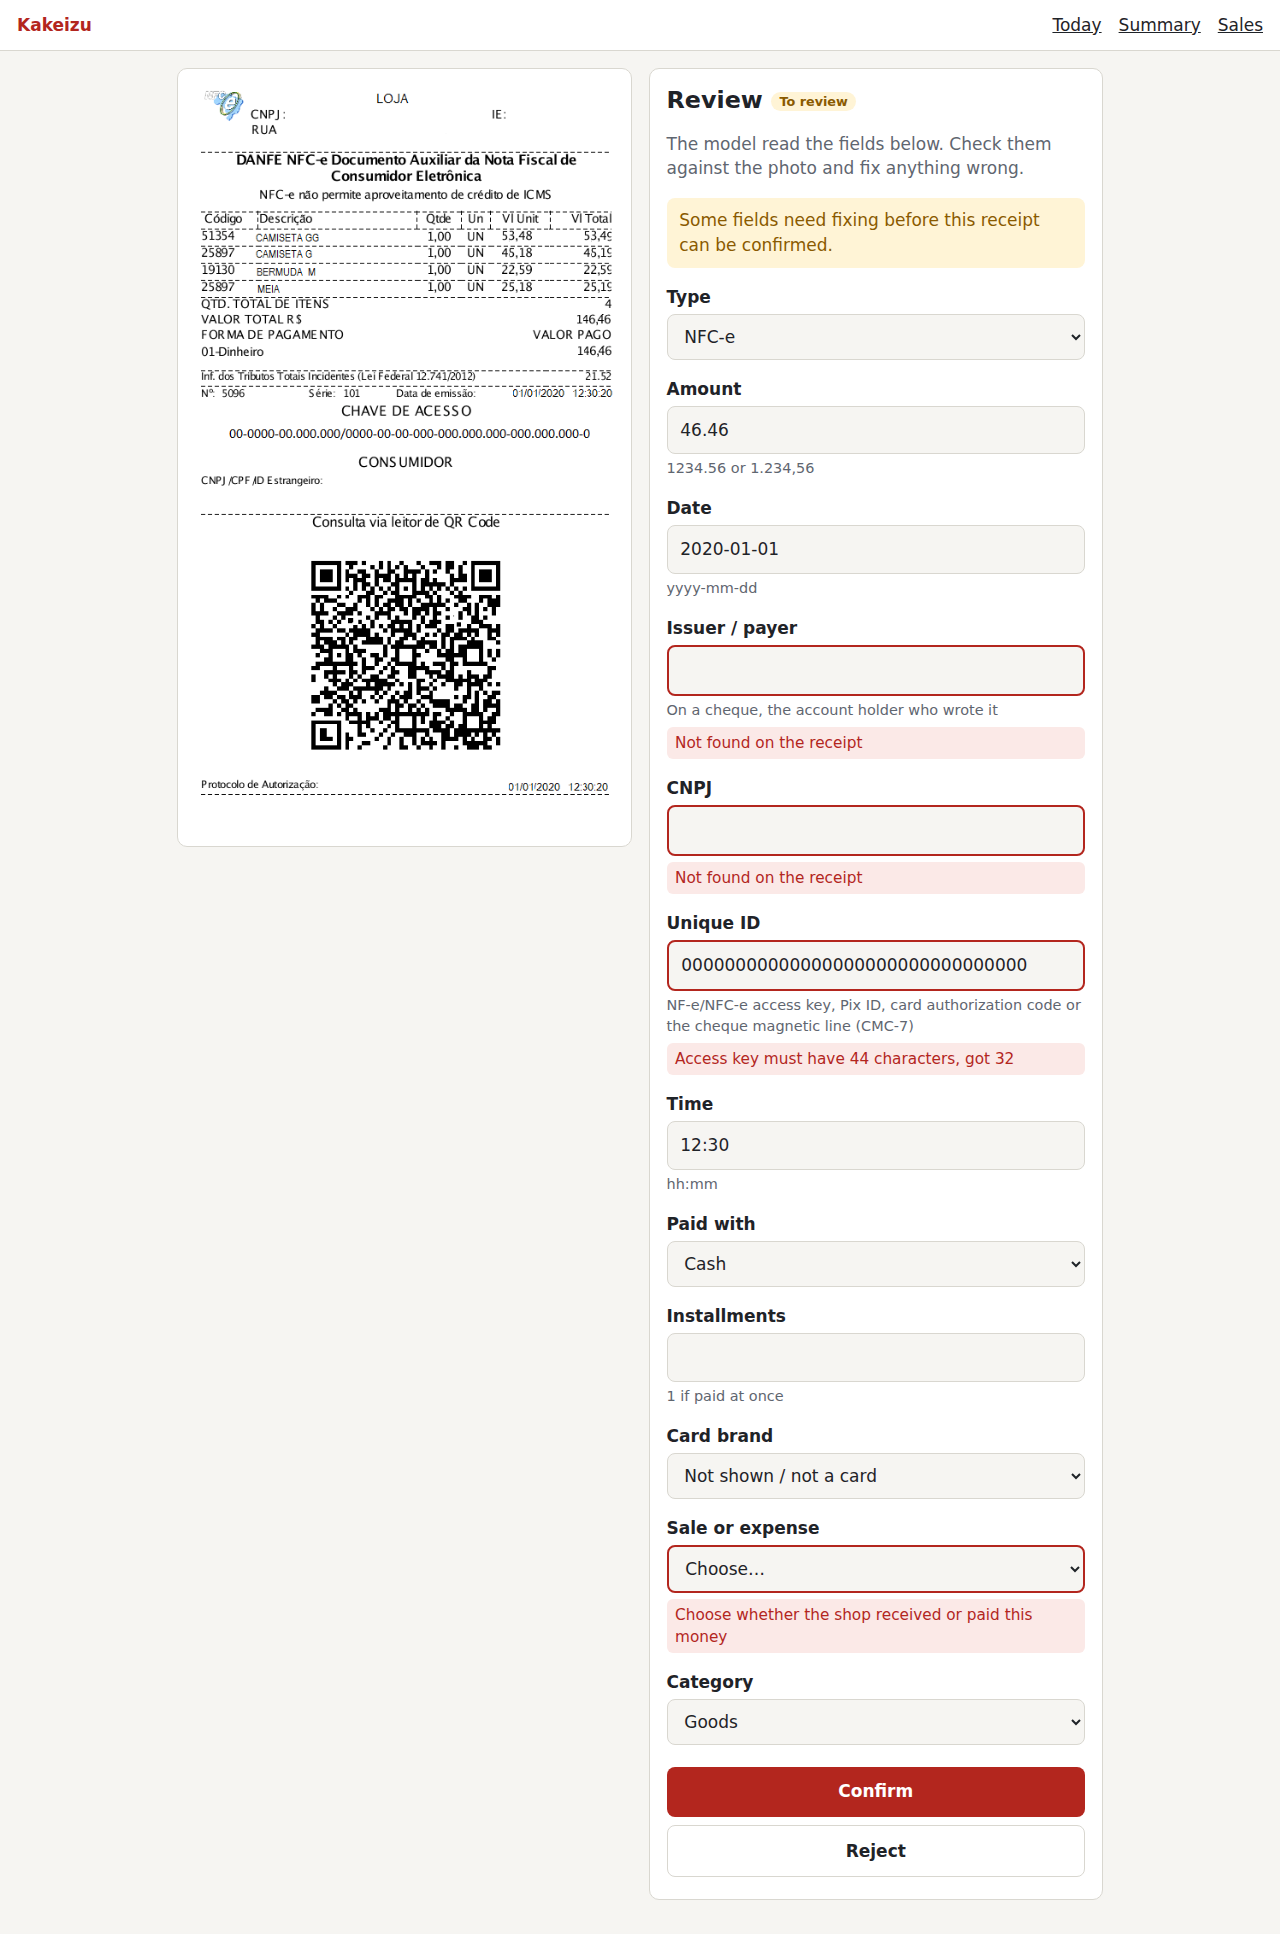
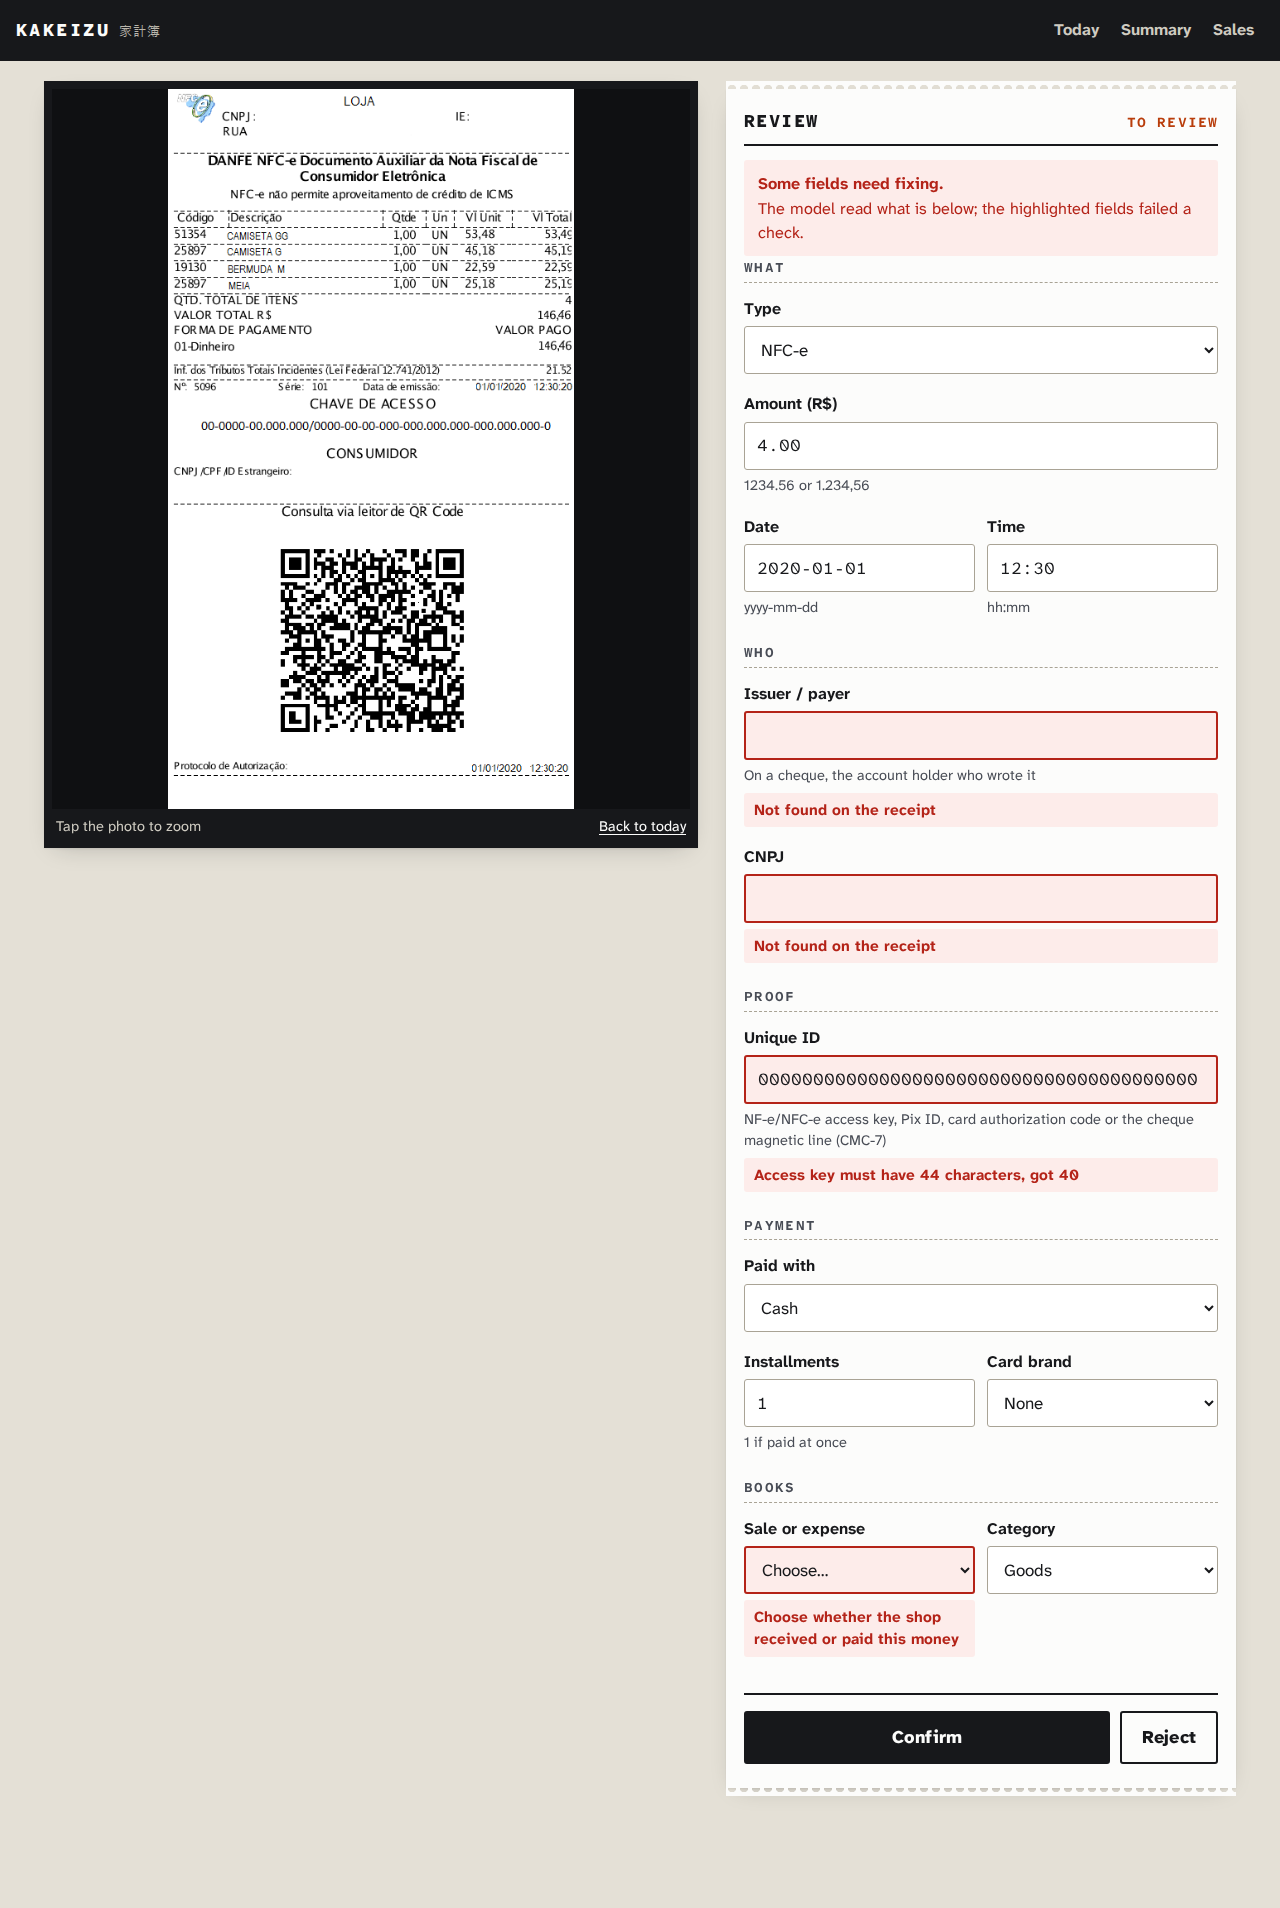
docs: new screenshots and background reading in the readme

diff --git a/README.md b/README.md
@@ -54,7 +54,7 @@ the domain checks every digit it can, and a person confirms. Nothing is confirme
 <tr>
 <td align="center">📱<br><b>Photo</b><br><sub>from the phone</sub></td>
 <td align="center">➜</td>
-<td align="center">🤖<br><b>Gemma</b><br><sub>reads the fields,<br>locally on Ollama</sub></td>
+<td align="center">🤖<br><b>Gemma</b><br><sub>reads the fields locally,<br>in the background</sub></td>
 <td align="center">➜</td>
 <td align="center">🧮<br><b>Domain</b><br><sub>check digits,<br>formats, dates</sub></td>
 <td align="center">➜</td>
@@ -78,20 +78,28 @@ the domain checks every digit it can, and a person confirms. Nothing is confirme
 
 The model's answer and the person's corrections go through **the same** validation.
 
+### ⏱ No waiting for the model
+
+A reading takes ~15 s on a consumer GPU, nearly all of it the model's own reasoning (the image itself is
+processed in under a second, and turning the reasoning off costs accuracy). So nobody waits for it: the
+upload saves the photo and returns at once, and a background worker reads it while the owner takes the
+next photo. The line on today's list updates itself when the reading is done. If the model fails, the
+receipt still goes to review, empty, to be typed from the photo; readings cut by a restart start again.
+
 ### 🗂 Several photos at once
 
-Up to 5 photos can go in one upload. Each one is read on its own virtual thread inside a
-[structured task scope](https://openjdk.org/jeps/505): every photo gets an answer, a photo the model
-cannot read does not stop the others, and no thread outlives the request. With one GPU the model still
-reads one photo at a time, so this is about shape, not speed.
+Up to 5 photos can go in one upload. Each one is saved and queued on its own virtual thread inside a
+[structured task scope](https://openjdk.org/jeps/505): every photo gets an answer, a photo that fails
+does not stop the others, and no thread outlives the request.
 
 Every log line of an upload carries a correlation id held in a
-[scoped value](https://openjdk.org/jeps/506), which the forked threads inherit:
+[scoped value](https://openjdk.org/jeps/506). Forked threads inherit it; the background reader gets it
+handed over explicitly, since a scoped value does not cross into an executor on its own:
 
 ```
-(executor-thread-1)  [e618ffe0] Batch of 2 photos
-(batch-e618ffe0-1)   [e618ffe0/1] Model read the receipt in 11512 ms
-(batch-e618ffe0-2)   [e618ffe0/2] Model read the receipt in 10985 ms
+(executor-thread-3) [2774b991] Receipt 2375400d-… uploaded, queued for reading
+(reader-1)          [2774b991] Model read the receipt in 12177 ms
+(reader-1)          [2774b991] Receipt 2375400d-… read, pending review
 ```
 
 ## 📸 Screenshots
@@ -102,8 +110,13 @@ Every log line of an upload carries a correlation id held in a
 
 <img src="docs/gifs/wrong-amount.gif" alt="Joey from Friends, disappointed" width="160" align="right">
 
+Every screen is set like the thermal slips it reads: numbered lines, a dotted leader to each amount, the
+state drawn by the rule under the line (dashed while the model reads, orange to review, double green once
+confirmed). The photo goes up and the list comes back at once; the line prints itself in when the model
+is done.
+
 On review, the template NFC-e has no CNPJ and a zeroed access key, so it cannot be confirmed as read.
-Look at the amount too: the photo says **146,46**, the model read **46,46**. A well-formed wrong number has
+Look at the amount too: the photo says **146,46**, the model read **4,00**. A well-formed wrong number has
 no check digit, so the person is the one who catches it.
 
 <br clear="right">
@@ -116,7 +129,7 @@ no check digit, so the person is the one who catches it.
 | ⚡ Framework | Quarkus 3.40, Maven |
 | 🤖 AI | LangChain4j + Ollama, `gemma4:e4b` by default (any Ollama vision model works) |
 | 🐘 Database | PostgreSQL 16 + Flyway |
-| 🖥 Web | Qute templates + htmx, no frontend build |
+| 🖥 Web | Qute templates + htmx, no frontend build; Atkinson Hyperlegible (self-hosted) |
 | 🔐 Security | form login (single `admin`, PBKDF2), HTTPS on the network, strict CSP |
 
 ## 🚀 Running
@@ -404,8 +417,8 @@ with the current prompt:
 
 <br clear="right">
 
-⏱ Readings take ~15 s warm (median, 12–19 s) on a consumer GPU; the model is loaded in the background as
-soon as the upload page opens.
+⏱ Readings take ~15 s warm (median, 12–19 s) on a consumer GPU, and they run in the background: the
+upload returns at once. The model is loaded as soon as the upload page opens.
 
 ## 🔓 Why open matters
 
